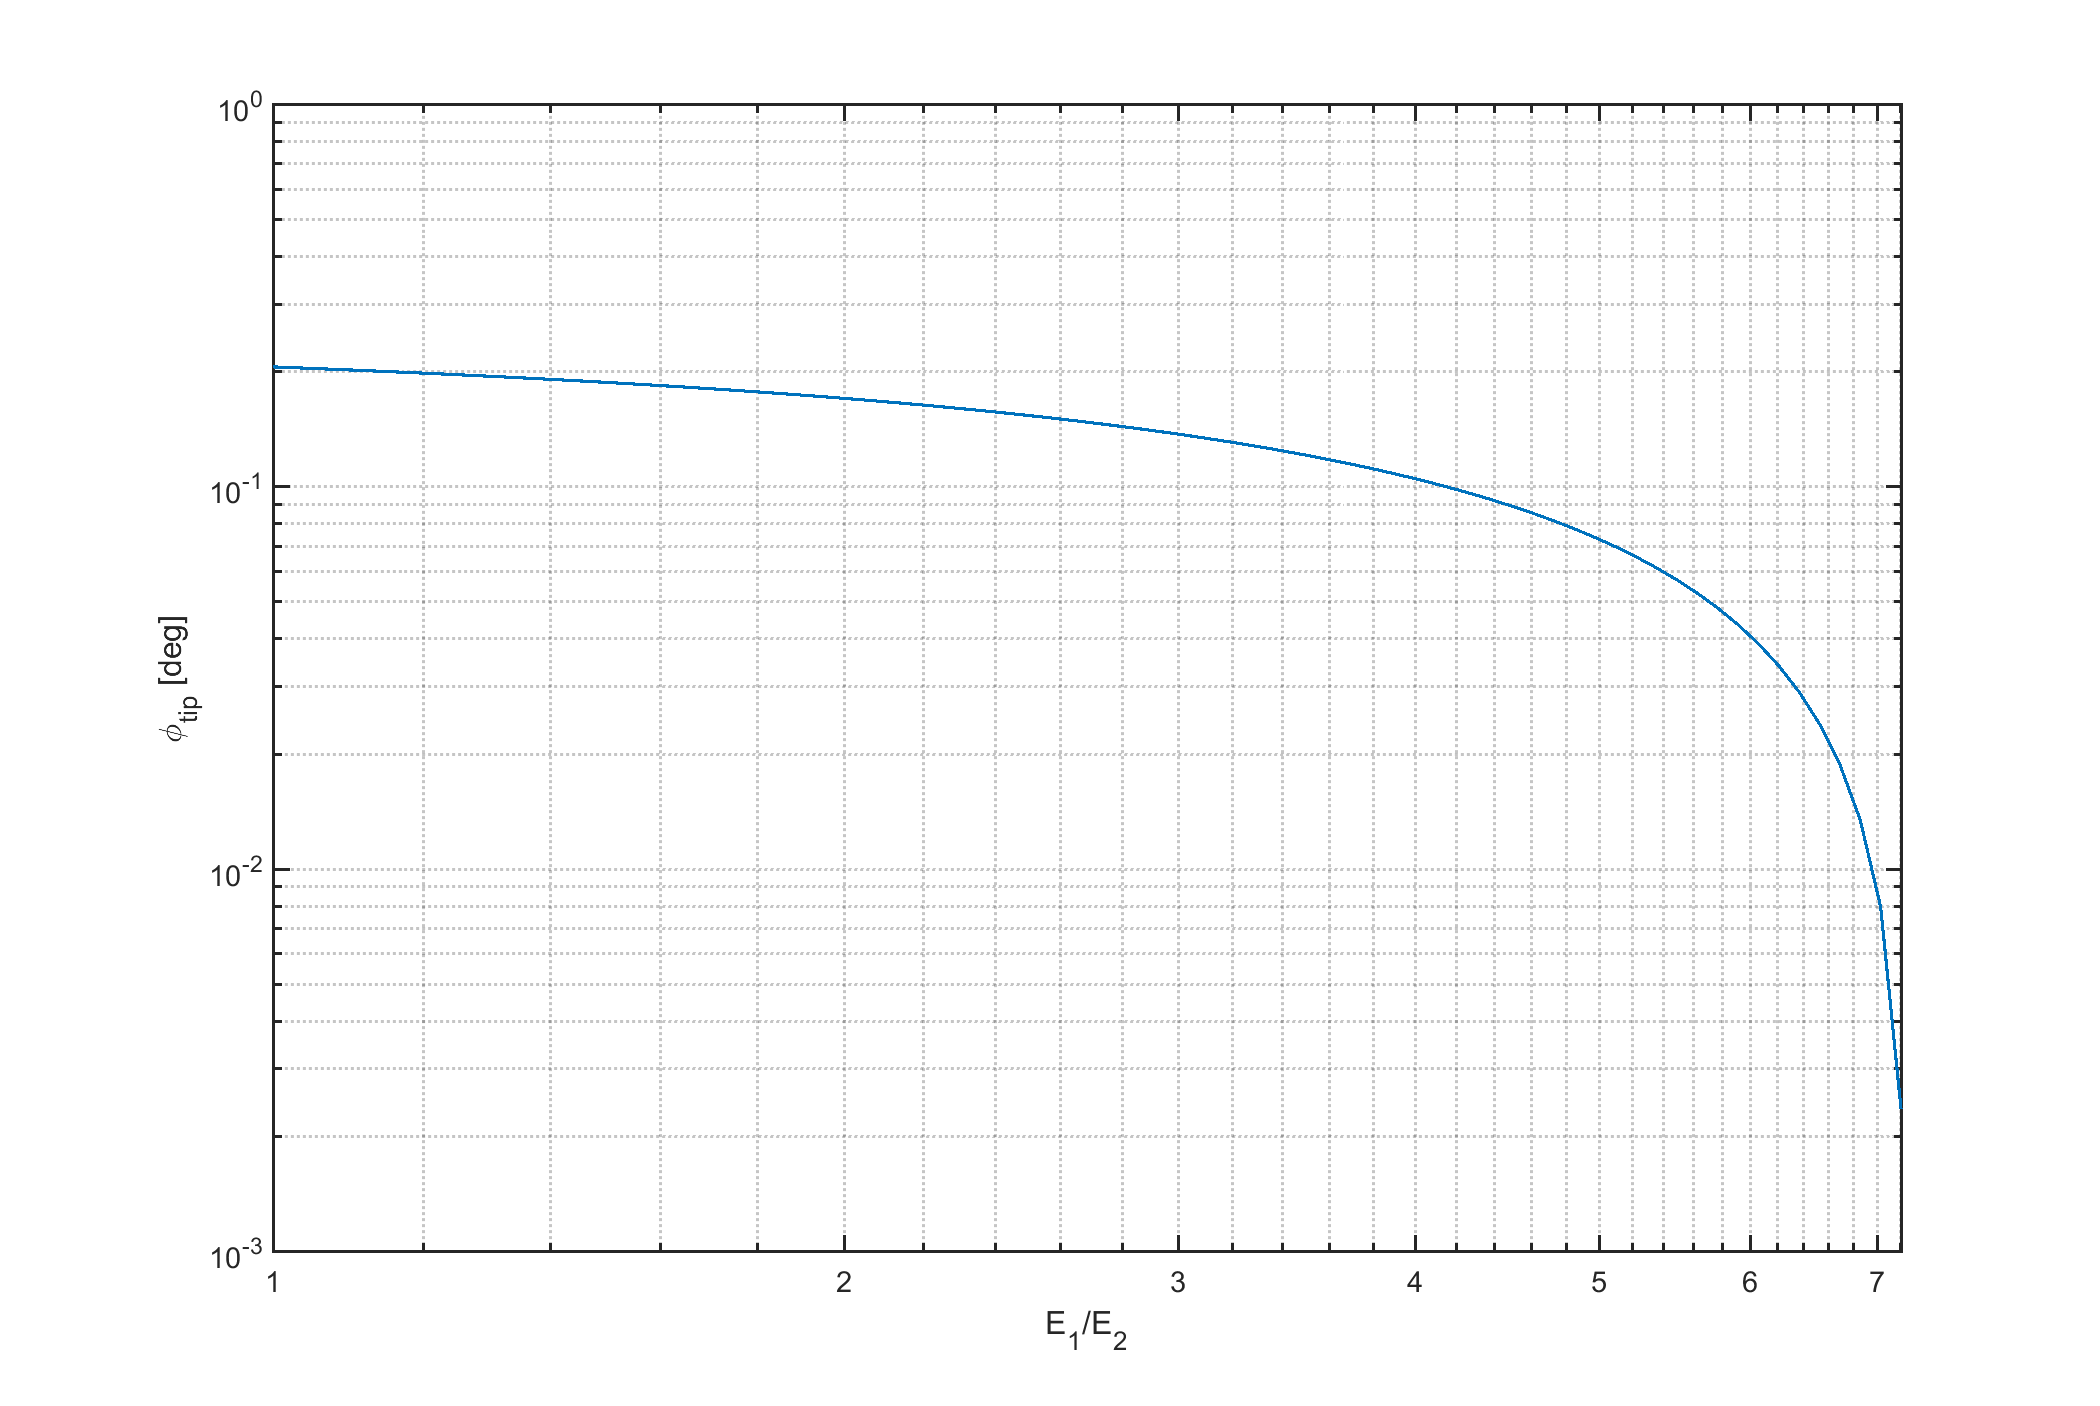
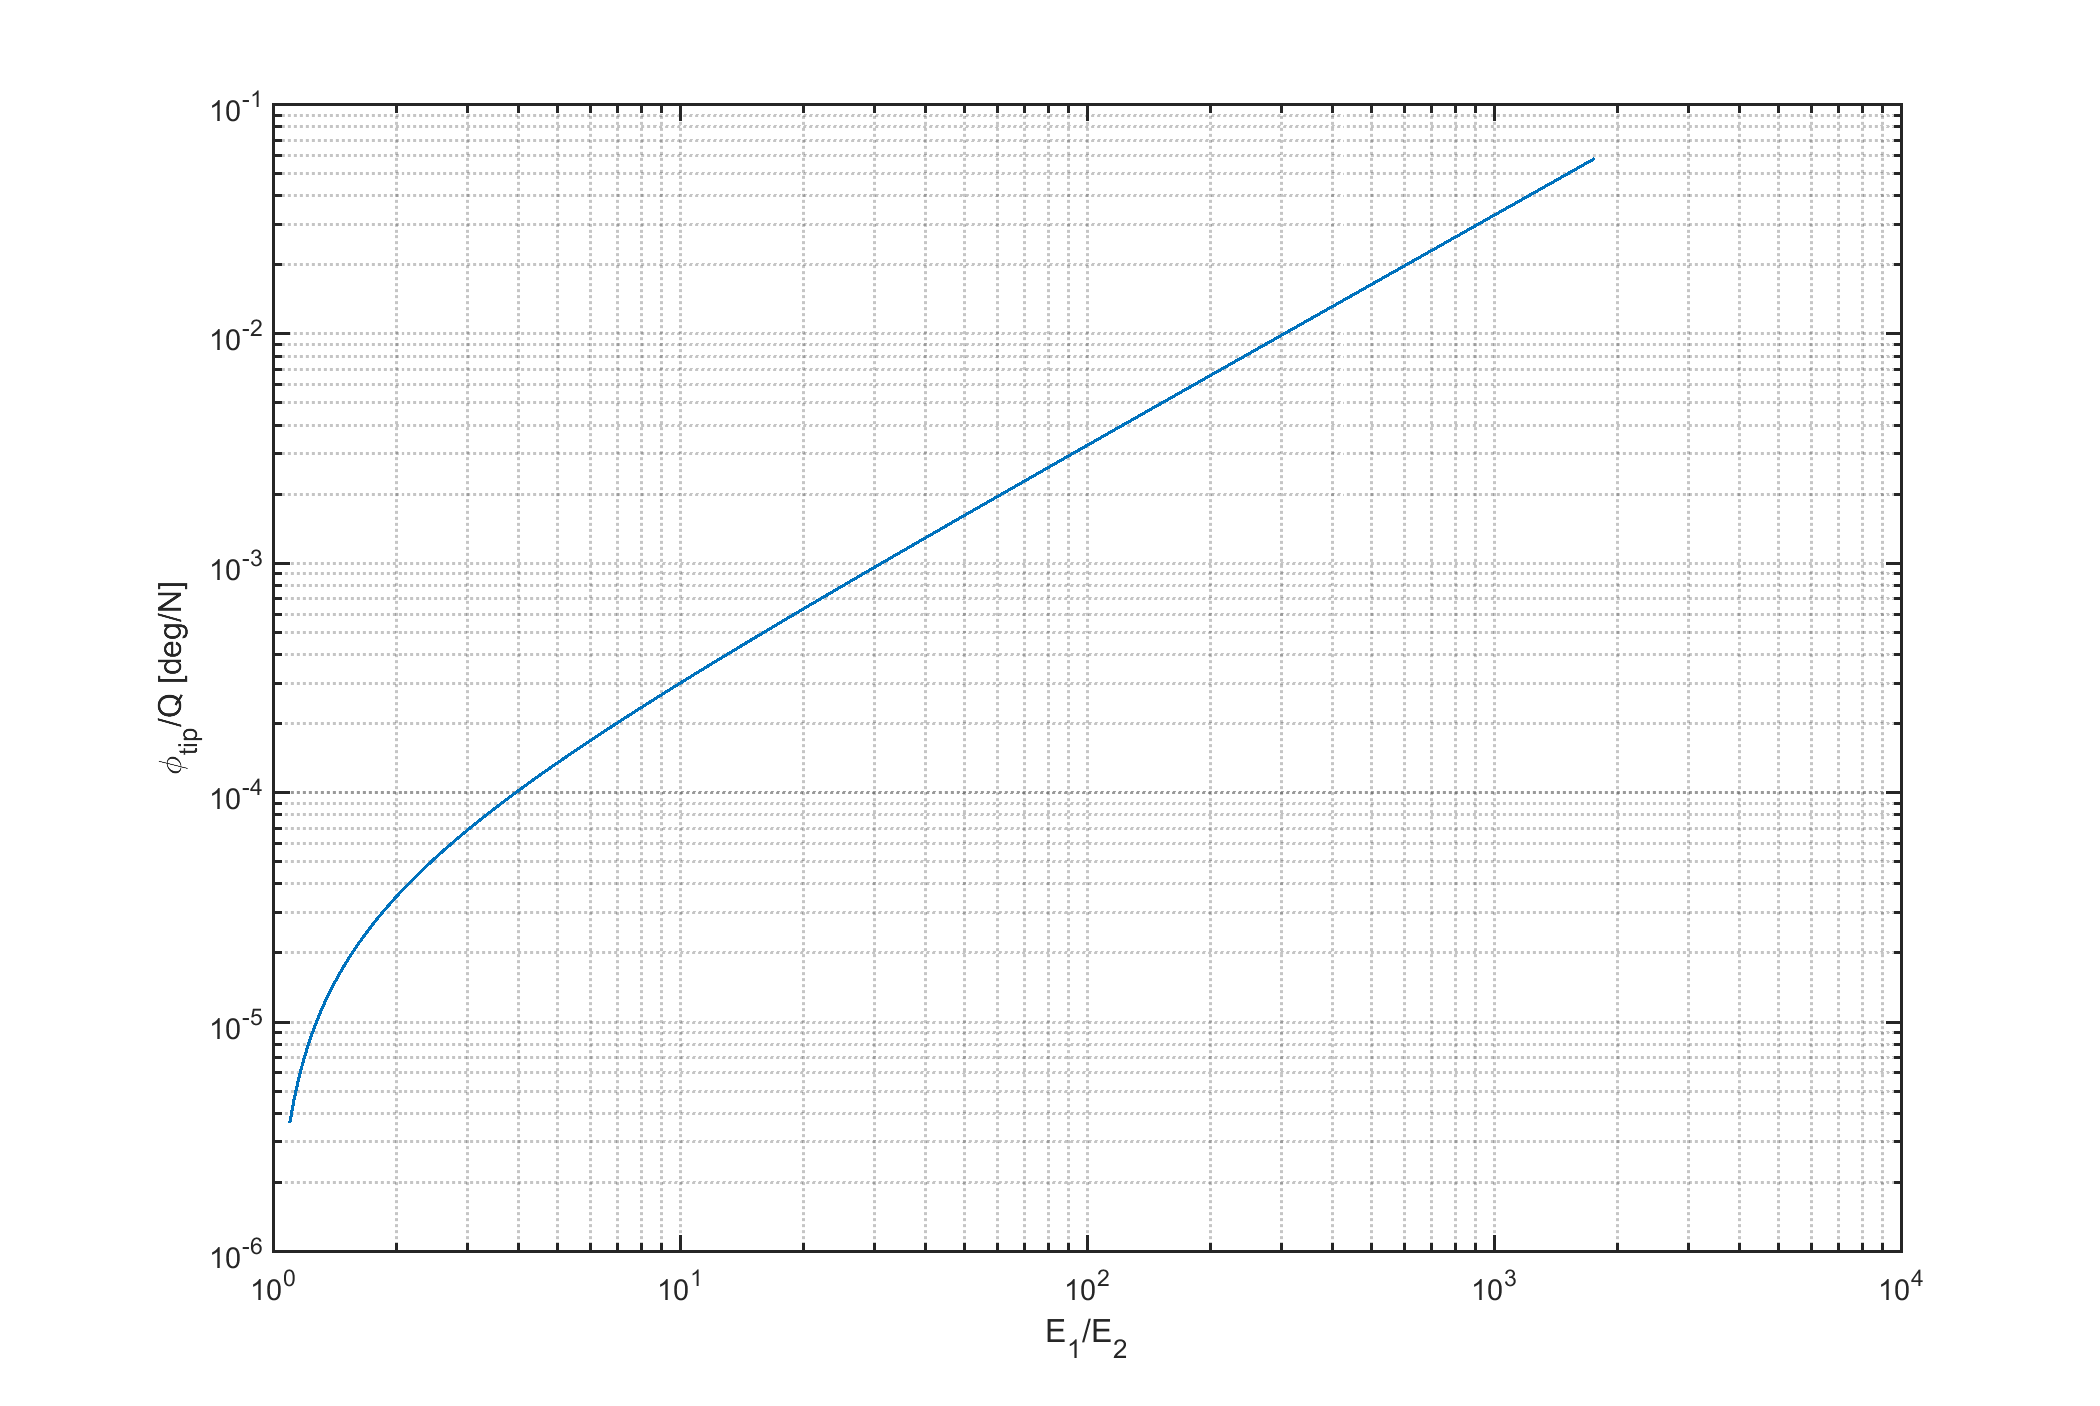
More plots and speling errors corrected

diff --git a/variationParameters.m b/variationParameters.m
@@ -17,7 +17,7 @@ mat.G2 = mat.E2 / ( 2*(0.3269 + 1) ); %N/mm2, steel: 79.3 GPa
 
 loadCase.Q_z_total = 2000; %N
 
-loadCase.posForceAdim = 0.5;
+loadCase.posForceAdim = 0.0;
 
 plotSettings.plotAnalytical = false;
 plotSettings.savePlot = true;
@@ -44,10 +44,10 @@ geom_init = geom;
 % study.E1overE2 = logspace(0,5,100);
 study.n_E1overE2 = 300;
 study.step_E1overE2 = 1.025;
-study.E1overE2 = 1; %Initial value
+study.E1overE2 = 1.1; %Initial value
 study.twistTip = zeros(1, study.n_E1overE2);
 study.storage_E1overE2 = zeros(1, study.n_E1overE2);
-study.w_b_tip = zeros(1, study.n_E1overE2);
+study.Q_z_total = zeros(1, study.n_E1overE2);
 operCell = cell(1, study.n_E1overE2);
 
 %Update variable
@@ -61,6 +61,8 @@ for i_study= 1:study.n_E1overE2
 	mainBeam %Execute analytical model script
 	
 	study.twistTip(i_study) = twist_concentratedLoad(end) .* (180/pi);
+
+	study.Q_z_total = oper.Q_z_total;
 	
 	operCell{i_study} = oper;
 	
@@ -68,14 +70,15 @@ for i_study= 1:study.n_E1overE2
 end
 
 figure('Units', 'normalized', 'Position', [0.15 0.1 0.7 0.75])
-set(gcf, 'Name', 'Twist at tip as a function of stiffness ratio E_1/E_2')
+set(gcf, 'Name', 'Torsional compliance a function of stiffness ratio E_1/E_2')
 ax = gca;
-loglog(ax, study.storage_E1overE2, study.twistTip, 'LineWidth', plotSettings.LineWidth);
+loglog(ax, study.storage_E1overE2, abs(study.twistTip) ./ study.Q_z_total, 'LineWidth', plotSettings.LineWidth);
+% plot(ax, study.storage_E1overE2, study.twistTip , 'LineWidth', plotSettings.LineWidth);
 % set(ax, 'YScale', 'log')
 % set(ax, 'XScale', 'log')
 % set(ax, 'YLabel', '\phi_{tip} [deg]')
 % set(ax, 'XLabel', 'E_1/E_2')
-ylabel('\phi_{tip} [deg]')
+ylabel('\phi_{tip}/Q [deg/N]')
 xlabel(['E_1/E_2'])
 
 FsClass.SetAxisProp(ax, plotSettings);
@@ -237,7 +240,7 @@ end
 figure('Units', 'normalized', 'Position', [0.15 0.1 0.7 0.75])
 set(gcf, 'Name', 'Torsional compliance for different cross sectional aspect ratio B/H and stiffness ratio E_1/E_2')
 ax = gca;
-ylabel('|\phi_{tip}|/Q [rad/N]')
+ylabel('|\phi_{tip}|/Q [deg/N]')
 xlabel(['B/H'])
 hold on
 
@@ -274,7 +277,7 @@ end
 figure('Units', 'normalized', 'Position', [0.15 0.1 0.7 0.75])
 set(gcf, 'Name', 'Flexural compliance for different cross sectional aspect ratio B/H and stiffness ratio E_1/E_2')
 ax = gca;
-ylabel('|w_{0,tip}|/Q [mm/N]')
+ylabel('w_{0,tip}/Q [mm/N]')
 xlabel(['B/H'])
 hold on
 
@@ -311,7 +314,7 @@ end
 figure('Units', 'normalized', 'Position', [0.15 0.1 0.7 0.75])
 set(gcf, 'Name', 'Ratio of flexural and torsional compliance for different cross sectional aspect ratio B/H and stiffness ratio E_1/E_2')
 ax = gca;
-ylabel('|\phi_{tip}|/w_{0,tip} [rad/mm]')
+ylabel('|\phi_{tip}|/w_{0,tip} [deg/mm]')
 xlabel(['B/H'])
 hold on
 
@@ -494,7 +497,7 @@ end
 figure('Units', 'normalized', 'Position', [0.15 0.1 0.7 0.75])
 set(gcf, 'Name', 'Torsional compliance for different thickness ratio t_2/t_1 and stiffness ratio E_1/E_2')
 ax = gca;
-ylabel('|\phi_{tip}|/Q [rad/N]')
+ylabel('|\phi_{tip}|/Q [deg/N]')
 xlabel(['t_2/t_1'])
 hold on
 
@@ -531,7 +534,7 @@ end
 figure('Units', 'normalized', 'Position', [0.15 0.1 0.7 0.75])
 set(gcf, 'Name', 'Flexural compliance for different thickness ratio t_2/t_1 and stiffness ratio E_1/E_2')
 ax = gca;
-ylabel('|w_{0,tip}|/Q [mm/N]')
+ylabel('w_{0,tip}/Q [mm/N]')
 xlabel(['t_2/t_1'])
 hold on
 
@@ -568,7 +571,7 @@ end
 figure('Units', 'normalized', 'Position', [0.15 0.1 0.7 0.75])
 set(gcf, 'Name', 'Ratio of flexural and torsional compliance for different thickness ratio t_2/t_1 and stiffness ratio E_1/E_2')
 ax = gca;
-ylabel('|\phi_{tip}|/w_{0,tip} [rad/mm]')
+ylabel('|\phi_{tip}|/w_{0,tip} [deg/mm]')
 xlabel(['t_2/t_1'])
 hold on
 
@@ -597,4 +600,112 @@ FsClass.SetAxisProp(ax, plotSettings);
 %Save figure
 if plotSettings.savePlot
     saveas(gcf, [dirWork.figures 'phioverw-E1overE2-t2overt1.png'])
+end
+
+%% Variation of LoverB - slenderness ratio
+clearvars study mat geom
+study.LoverB = linspace(5, 40, 100);
+study.E1overE2 = [1, 10^0.5, 10^1, 10^1.5, 10^2, 10^2.5, 10^3];
+
+study.result_GIt_LoverB = zeros(length(study.E1overE2), length(study.LoverB));
+study.result_ySC_LoverB = zeros(length(study.E1overE2), length(study.LoverB));
+study.result_Phi_y = zeros(length(study.E1overE2), length(study.LoverB));
+study.result_twistTip_LoverB = zeros(length(study.E1overE2), length(study.LoverB));
+study.result_wbtip_LoverB = zeros(length(study.E1overE2), length(study.LoverB));
+study.result_Q_z_total = zeros(length(study.E1overE2), length(study.LoverB));
+
+%Update variable
+mat = mat_init;
+geom = geom_init;
+for i_study= 1:length(study.E1overE2)
+for j_study= 1:length(study.LoverB)
+mat.E2 = mat.E1 / study.E1overE2(i_study);
+mat.G2 = mat.E2 / (2*(0.3269 + 1) ); %N/mm2,
+cte = 2*geom.L*geom.t1*(geom.B + geom.H);
+geom.L = (-geom.H + sqrt(geom.H^2 + (4*cte/(2*geom.t1*study.LoverB(j_study))) ))/(2/study.LoverB(j_study));
+geom.B = geom.L / study.LoverB(j_study);
+
+mainBeam %Execute analytical model script
+
+study.result_GIt_LoverB(i_study, j_study) = oper.torStiff;
+study.result_ySC_LoverB(i_study, j_study) = -oper.y_sc_closed / geom.B;
+study.result_Phi_y(i_study, j_study) = oper.Phi_y;
+study.result_twistTip_LoverB(i_study, j_study) = twist_concentratedLoad(end) .* (180/pi);
+study.result_wbtip_LoverB(i_study, j_study) = oper.w_b(end);
+study.result_Q_z_total(i_study, j_study) = oper.Q_z_total;
+end
+end
+
+%%%%%%%%%%%%%%%%%%%%%
+%% Torsional compliance
+
+figure('Units', 'normalized', 'Position', [0.15 0.1 0.7 0.75])
+set(gcf, 'Name', 'Torsional compliance for different slenderness ratio L/B and stiffness ratio E_1/E_2')
+ax = gca;
+ylabel('|\phi_{tip}|/Q [deg/N]')
+xlabel(['L/B'])
+hold on
+
+y_plots = zeros(1, length(study.E1overE2));
+legendStr = cell(1, length(study.E1overE2));
+i_plot = 1;
+j_plot = 1;
+for i= 1:length(study.E1overE2)
+	y_plots(i) = plot(ax, study.LoverB, abs(study.result_twistTip_LoverB(i, :)) ./ study.result_Q_z_total(i, :), ...
+		'Color', plotSettings.lineColor{i_plot}, 'LineStyle',plotSettings.lineStyle{j_plot}, ...
+		'LineWidth', plotSettings.LineWidth); 
+	legendStr{i} = ['E1/E2=10^{' num2str(round(log10(study.E1overE2(i)), 2)) '}'];
+	if i_plot == 4
+	    i_plot = 1;
+	    j_plot = j_plot + 1;
+	else
+	    i_plot = i_plot + 1;
+	end
+end
+
+
+legend(ax, y_plots, legendStr, 'location','Best')
+
+FsClass.SetAxisProp(ax, plotSettings);
+
+%Save figure
+if plotSettings.savePlot
+    saveas(gcf, [dirWork.figures 'phioverQ-E1overE2-LoverB.png'])
+end
+
+%%%%%%%%%%%%%%%%%%%%%
+%% Flexural compliance
+
+figure('Units', 'normalized', 'Position', [0.15 0.1 0.7 0.75])
+set(gcf, 'Name', 'Flexural compliance for different slenderness ratio L/B and stiffness ratio E_1/E_2')
+ax = gca;
+ylabel('w_{0,tip}/Q [mm/N]')
+xlabel(['L/B'])
+hold on
+
+y_plots = zeros(1, length(study.E1overE2));
+legendStr = cell(1, length(study.E1overE2));
+i_plot = 1;
+j_plot = 1;
+for i= 1:length(study.E1overE2)
+	y_plots(i) = plot(ax, study.LoverB, abs(study.result_wbtip_LoverB(i, :)) ./ study.result_Q_z_total(i, :), ...
+		'Color', plotSettings.lineColor{i_plot}, 'LineStyle',plotSettings.lineStyle{j_plot}, ...
+		'LineWidth', plotSettings.LineWidth); 
+	legendStr{i} = ['E1/E2=10^{' num2str(round(log10(study.E1overE2(i)), 2)) '}'];
+	if i_plot == 4
+	    i_plot = 1;
+	    j_plot = j_plot + 1;
+	else
+	    i_plot = i_plot + 1;
+	end
+end
+
+
+legend(ax, y_plots, legendStr, 'location','Best')
+
+FsClass.SetAxisProp(ax, plotSettings);
+
+%Save figure
+if plotSettings.savePlot
+    saveas(gcf, [dirWork.figures 'woverQ-E1overE2-LoverB.png'])
 end
